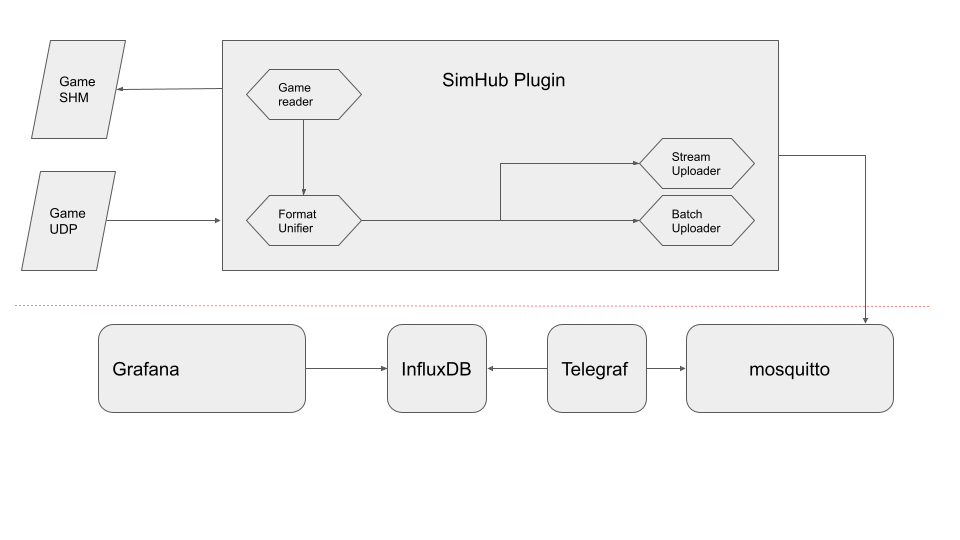
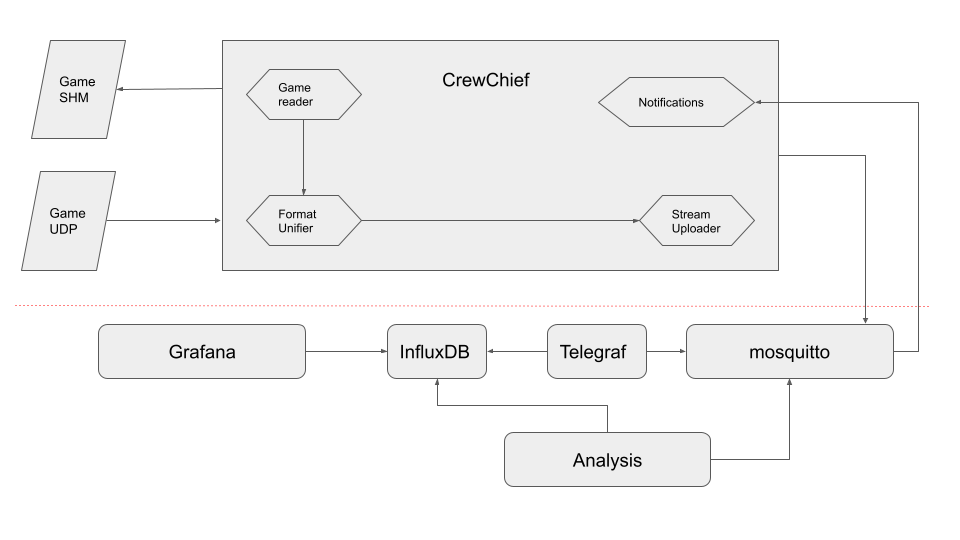
update readme

diff --git a/README.md b/README.md
@@ -1,41 +1,24 @@
-# B4mad racing
+# [B4mad racing](https://b4mad.racing)
 
-https://b4mad.racing - https://pitwall.b4mad.racing
+> Community driven SimRacing data collection and analysis.
+### A telemetry data collection and analysis pipeline for simracers :racing_car:
 
-### A telemetry data collection pipeline for simracers :racing_car:
-
-The b4mad client is implemented via a [SimHub](https://www.simhubdash.com/) plugin. This means that b4mad can take data
-in from any simulation that SimHub supports. The plugin will send your simulator telemetry data to the b4mad cloud. You
-can then visualize your telemetry data using our dashboarding tooling.
+The pipeline start at [CrewChief](https://thecrewchief.org/).
+This means we can take data in from any simulation that CrewChief supports.
+CrewChief will send your simulator telemetry data to an endpoint hosted on the [Operate First Community Cloud](https://www.operate-first.cloud).
+You can then visualize your telemetry data in our [B4mad Pitwall](https://pitwall.b4mad.racing/)
+or do some [data science](ai/)
 
 ![architecture](docs/architecture.png)
 
 ## Installation
 
-1. Install [SimHub](https://www.simhubdash.com/) 
-1. Download the [MQTT Publisher
-   plugin](https://nightly.link/durandom/SimHub-MQTT-Publisher/workflows/dotnet/main/release-artifact.zip)
-1. Unzip the contents of the MQTT publisher plugin into the SimHub folder. It is
-   probably `C:\Program Files (x86)\SimHub` unless you used an alternate install
-   location.
-1. Run SimHub and go to the plugin settings. You will find them in the left-navigation of SimHub under the `MQTT Publisher` heading.
-1. Change the `MQTT Topic` to include a username for yourself.
+1. Install [CrewChief](https://thecrewchief.org/) 
+2. Enable the telemetry collection by checking 'MQTT Telemetry enabled' in the CrewChief options
+3. Choose a 'MQTT drivername' in the CrewChief options
 
-    At this time there is no user registration, so anything goes. But avoid special characters, emoji, unicode, and etc.
-
-    Good: `racing/paul_ricard` (no spaces)
-
-    Bad: `racing/i am a hero!` (spaces, special characters)
-
-    Also bad: `racingdriver64` (missing `racing/`)
-
-    You **MUST** leave `racing/` as the prefix.
-
-![simhub](docs/simhub.png)
-
-Once complete, any time you run your simulator you will be sending data to
-b4mad. See the Visualization section for information about how to look at your
-data.
+Once complete, any time you run your simulator you will be sending data.
+See the Visualization section for information about how to look at your data.
 ## Visualization
 
 Head over to the [B4mad Pitwall](https://pitwall.b4mad.racing) and explore your
@@ -82,7 +65,7 @@ docker-compose exec mosquitto mosquitto_pub  -u admin -P admin -t racing -m "`ca
 subscribe
 ```
 docker-compose exec mosquitto mosquitto_sub  -u admin -P admin -t racing/\# -d
-docker-compose exec mosquitto mosquitto_sub  -p 31883 -h telemetry.b4mad.racing -u admin -P admin -t racing/\# -d
+docker-compose exec mosquitto mosquitto_sub  -p 31883 -h telemetry.b4mad.racing -u admin -P admin -t crewchief/\# -d
 ```
 
 * https://github.com/eclipse/paho.mqtt.python
